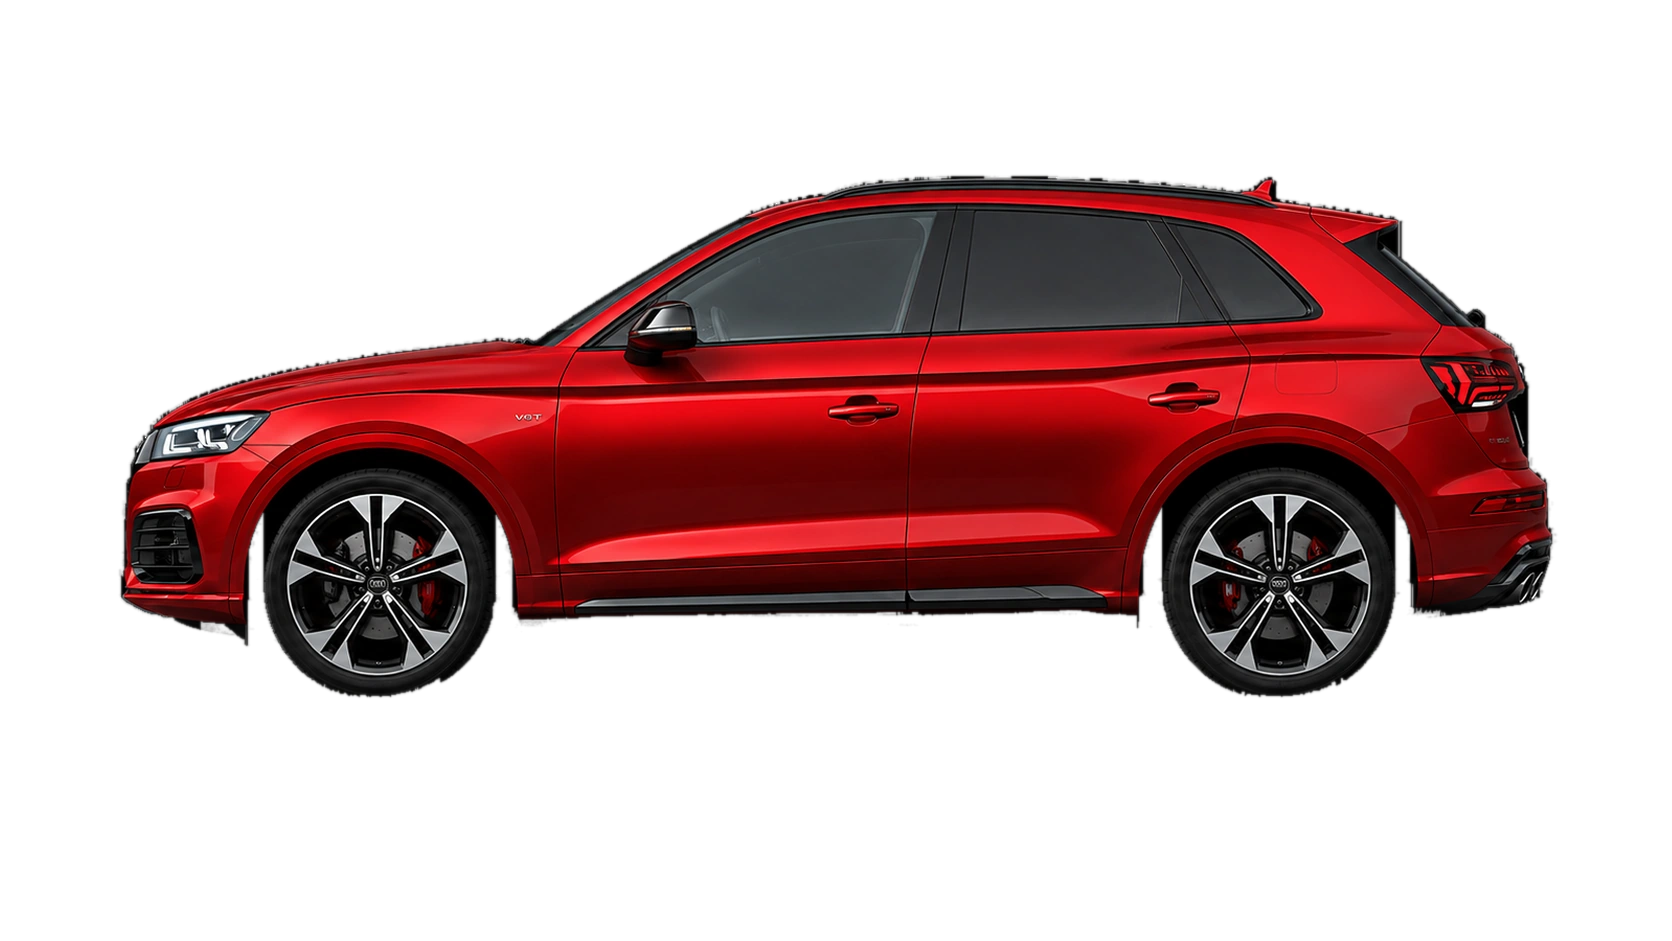
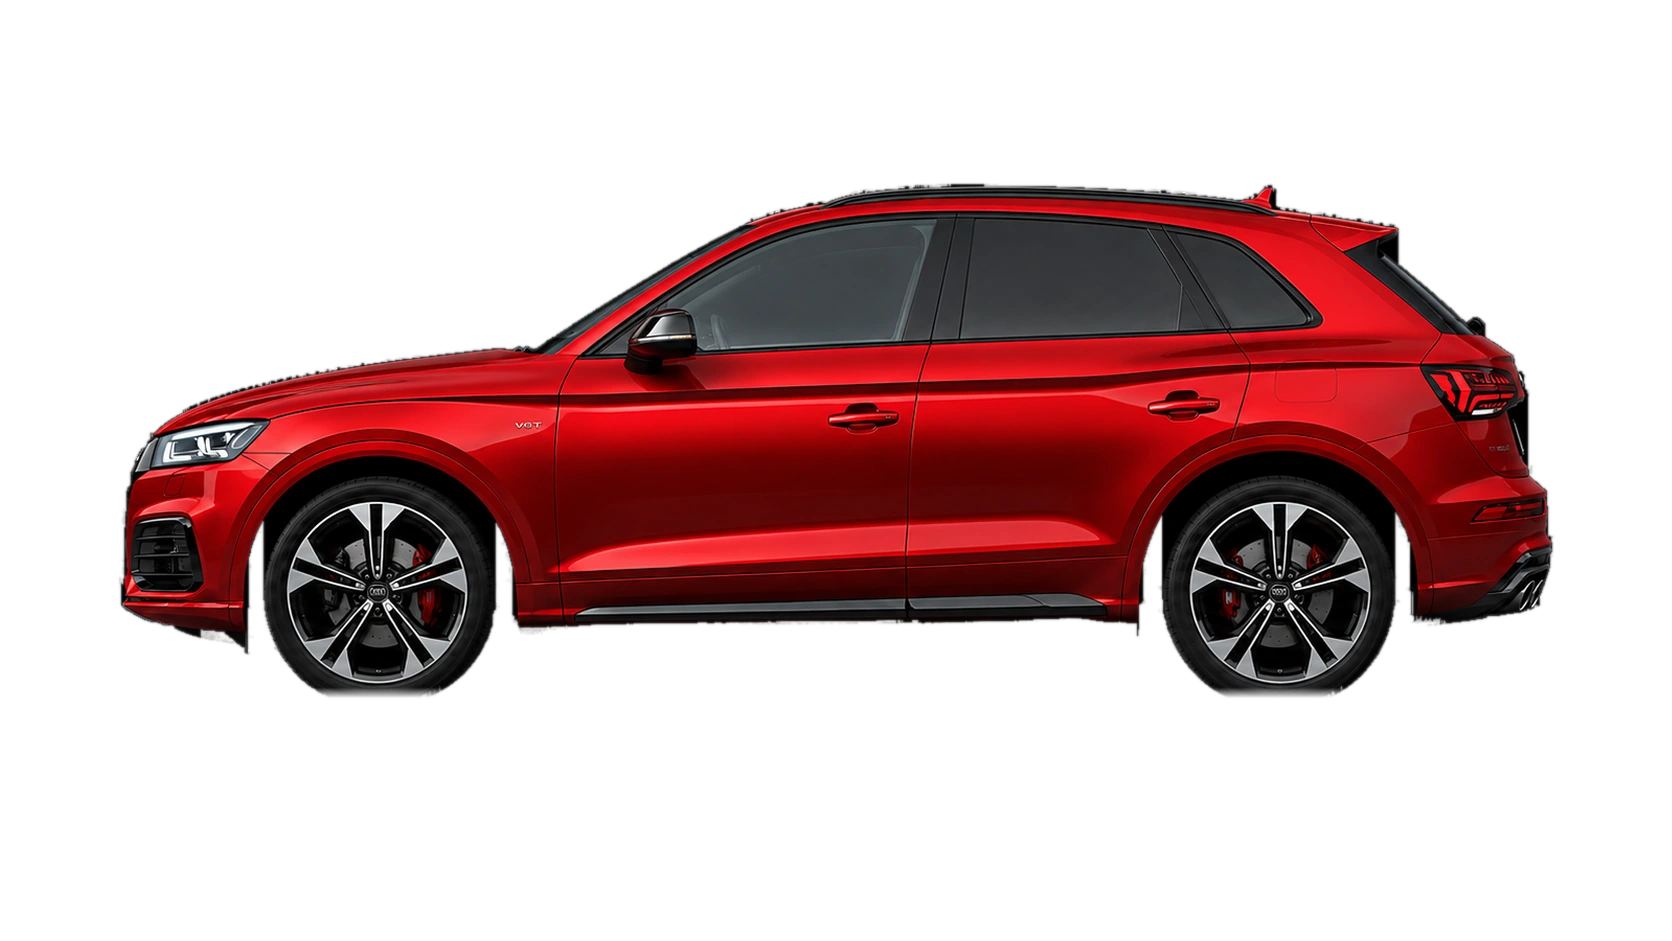
La línea de luz va debajo de la goma, nunca encima
La regla la dio el cliente mirando la GLC, que es la que se ve bien: la
goma termina unos píxeles POR ENCIMA de la línea y la línea pasa limpia
por debajo. Los demás autos apoyaban su último píxel de goma sobre la
línea brillante, y el brillo se comía el remate del neumático: la rueda
se veía amputada. De ahí venía todo — no era un problema de recorte
solamente, era dónde quedaba la goma respecto de la línea.

Dos cambios:

1. La alineación vertical usa el remate SÓLIDO de la goma (alfa 0.55,
   no la cola tenue) y lo deja APOYO=4 px arriba de la línea, la misma
   relación que la GLC aprobada.

2. El recorte conserva la goma oscura entera. En la foto del RS 3 el
   neumático de abajo mide luminancia 3-8 y el ramp lo dejaba
   traslúcido: lo que tocaba la barra era una púa de 26 px y el arco
   real quedaba cortado arriba. El rescate crece por cercanía desde el
   material indudable de la zona de contacto — la goma abraza la rueda,
   la neblina se extiende lejos de ella —, el relleno de interior exige
   material del auto por encima de la banda (una columna que solo tiene
   contenido pegado al piso es neblina, no auto), y debajo del material
   indudable todo remata en 10 filas.

La GLC sigue congelada, byte a byte.

Changed region(s): [[0.0622, 0.1849, 0.933, 0.7396]]

diff --git a/public/index.html b/public/index.html
@@ -602,7 +602,7 @@ body{
      guardada la vieja bajo esa misma dirección y la muestra sin volver a
      preguntar. En Cloudflare es peor, porque además hay un CDN cacheando
      en el medio. */
-  const FOTOS = 'f568049c';
+  const FOTOS = 'e891cfd8';
 
   const imgs = CARS.map((c,i)=>{
     const el = document.createElement('img');

diff --git a/tools/build-cars.py b/tools/build-cars.py
@@ -19,9 +19,11 @@ Qué hace, y por qué cada paso:
    escala para que todos compartan la misma relación px/mm. Por eso un
    SUV sigue viéndose más alto que un coupé: porque lo es.
 
-3. ALINEA. Todos los autos quedan apoyando sobre la misma línea de piso
-   (GROUND) y centrados en el mismo eje (CENTER). Eso es lo que hace que
-   al cambiar de auto se lea como un reemplazo y no como un salto.
+3. ALINEA. Todos los autos rematan la goma unos píxeles POR ENCIMA de
+   la línea de luz (GROUND - APOYO) y centrados en el mismo eje
+   (CENTER). La línea va exactamente debajo de la goma, nunca encima:
+   si el último píxel del neumático cae sobre la línea, el brillo se lo
+   come y la rueda se ve amputada.
 
 4. EXPORTA tres tamaños. El @2x existe para pantallas retina, que piden
    el doble de píxeles de los que mide la ventana.
@@ -70,6 +72,18 @@ REAL = {
 SEMILLA = 45.0
 PISO = 2.5
 
+# La zona de contacto y cómo remata el auto contra la línea de luz.
+#
+# BANDA: las últimas filas de la foto donde conviven goma oscura y
+# neblina. FADE: cuántas filas tarda en morir lo que sigue debajo del
+# material indudable. APOYO: la goma termina este margen POR ENCIMA de
+# la línea de luz de la página — la línea va exactamente debajo de la
+# goma, nunca encima. La medida sale de la GLC, que es la referencia
+# aprobada de cómo tiene que verse el apoyo.
+BANDA = 40
+FADE = 10
+APOYO = 4
+
 # Fotos que no se vuelven a generar: manda el archivo ya publicado.
 #
 # La Mercedes está acá por pedido explícito. Vale saber qué se congela:
@@ -103,37 +117,51 @@ def cutout(path):
     lum = rgb.max(2)
 
     alpha = np.clip((lum - PISO) / 9.0, 0, 1)
-    visible = alpha > 0.30
 
-    if not (lum > SEMILLA).any():
+    strong = lum > SEMILLA
+    if not strong.any():
         raise SystemExit(f"no se encontró ningún auto en {path}")
+    piso = np.where(strong.sum(1) > 3)[0].max()
 
-    # --- limpieza del piso ---
-    #
-    # Debajo del auto no va nada. Las dos fotos que salen bien no traen
-    # ahí ni un pixel suelto; las que salen mal traen hasta 758, y ese
-    # manchón es todo el problema: el relleno de más abajo lo une con los
-    # neumáticos y los convierte en patas.
-    #
-    # Se limpia por contacto, no por brillo. Debajo de la última fila que
-    # tiene material indudable sólo sobrevive lo que siga pegado al auto:
-    # así la goma se conserva hasta su último pixel por oscura que sea, y
-    # la neblina se va por más clara que sea. Arriba de esa línea no se
-    # toca nada — lo que ya estaba bien no se recalcula.
-    piso = np.where((lum > SEMILLA).sum(1) > 3)[0].max()
-    piezas, _ = ndimage.label(visible)
-    pegadas = np.unique(piezas[lum > SEMILLA])
-    visible[piso + 1:] &= np.isin(piezas[piso + 1:], pegadas[pegadas > 0])
-    alpha[piso + 1:] *= visible[piso + 1:]
+    # Lo que no está pegado al auto no existe: motas y manchones sueltos
+    # se van, por claros que sean.
+    piezas, _ = ndimage.label(lum > PISO)
+    ids = np.unique(piezas[strong])
+    auto = np.isin(piezas, ids[ids > 0])
+    alpha *= auto
+
+    estricta = (np.clip((lum - PISO) / 9.0, 0, 1) > 0.30) & auto
+    y = np.arange(lum.shape[0])[:, None]
+    banda = y > piso - BANDA
+
+    # Rescate de la goma oscura. En algunas fotos el neumático de abajo
+    # mide luminancia 3-8 —casi negro— y el ramp normal lo deja
+    # traslúcido: sobre la luz de la página desaparece y la rueda se ve
+    # amputada. La goma y la neblina miden lo mismo en gris; lo que las
+    # separa es dónde están. La goma abraza la rueda, así que el refuerzo
+    # crece POR CERCANÍA desde el material indudable de la zona de
+    # contacto; la neblina, que se extiende por el piso lejos de todo,
+    # queda afuera.
+    cerca = ndimage.binary_dilation(estricta & banda, iterations=18)
+    boost = np.clip((lum - 2.0) / 4.0, 0, 1)
+    alpha = np.where(banda & cerca & auto, np.maximum(alpha, boost), alpha)
 
     # Relleno del interior. Un auto es macizo: entre el punto más alto y
     # el más bajo de cada columna no puede haber transparencia. Sin esto
-    # se ve el fondo a través de un auto negro.
-    ys, xs = np.where(visible)
+    # se ve el fondo a través de un auto negro. La columna tiene que
+    # tener material del auto POR ENCIMA de la banda de contacto: una
+    # columna cuyo único contenido vive pegado al piso es neblina, y
+    # rellenarla la convierte en un manchón macizo sobre la barra.
+    ys, xs = np.where(estricta)
     for x in range(xs.min(), xs.max() + 1):
-        col = np.where(visible[:, x])[0]
-        if col.size > 3:
+        col = np.where(estricta[:, x])[0]
+        if col.size > 3 and col.min() <= piso - BANDA:
             alpha[col.min(): col.max() + 1, x] = 1.0
+
+    # Debajo del material indudable, todo remata en pocas filas: el
+    # apoyo cierra y la neblina no llega a la línea de luz.
+    fade = np.clip((piso + FADE - y) / float(FADE), 0, 1)
+    alpha = np.where(y > piso, alpha * fade, alpha)
 
     return rgb, alpha
 
@@ -176,9 +204,14 @@ def main():
                              Image.LANCZOS)
 
         a = np.asarray(scaled)[..., 3].astype(np.float32) / 255
-        x0, x1, _, y1 = bounds(a, 0.235)
+        x0, x1, _, _ = bounds(a, 0.235)
+        # La vertical se alinea contra el remate SÓLIDO de la goma, no
+        # contra la cola tenue del alfa, y queda APOYO px por encima de
+        # la línea: la línea va exactamente debajo de la goma, nunca
+        # encima de ella.
+        _, _, _, y1 = bounds(a, 0.55)
         dx = round(CENTER * W - (x0 + x1) / 2)
-        dy = round(GROUND * H - y1)
+        dy = round(GROUND * H - y1) - APOYO
 
         canvas = Image.new("RGBA", (W, H), (0, 0, 0, 0))
         canvas.paste(scaled, (dx, dy))
